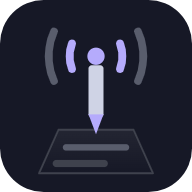
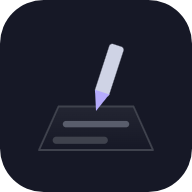
아이콘 — 신호 아크 제거, 연필 기울임(18°), 연필 움직임만
- 홈 로고: 안테나 신호 아크·발신점 삭제 → 연필+종이만, 위로 정렬(균형)
- 연필 18° 기울여 '쓰는' 자세, 신호 wave·종이줄 draw 애니메이션 제거(연필 스윕만)
- 앱 아이콘 PNG 6종 동일 디자인으로 재생성, sw v33

diff --git a/index.html b/index.html
@@ -49,14 +49,9 @@
     .hero { text-align:center; margin:14px 0 22px; }
     .emblem { display:grid; place-items:center; margin:2px auto 12px; }
     .appicon { width:116px; height:116px; border-radius:27px; overflow:hidden; box-shadow:0 12px 28px rgba(20,40,80,.30); display:block; }
-    @keyframes sigwave { 0%{opacity:0} 12%{opacity:1} 55%{opacity:1} 80%{opacity:.08} 100%{opacity:.08} }
-    .appicon .w1 { animation:sigwave 2.2s ease-in-out .15s infinite; }
-    .appicon .w2 { animation:sigwave 2.2s ease-in-out .75s infinite; }
     @keyframes writing { 0%{transform:translate(-46px,0)} 14%{transform:translate(-30px,-12px)} 28%{transform:translate(-14px,2px)} 42%{transform:translate(4px,-12px)} 56%{transform:translate(22px,2px)} 70%{transform:translate(46px,-6px)} 80%{transform:translate(46px,0)} 100%{transform:translate(-46px,0)} }
-    @keyframes drawline { 0%{stroke-dashoffset:320} 58%{stroke-dashoffset:0} 88%{stroke-dashoffset:0} 100%{stroke-dashoffset:320} }
     .appicon .pencil { animation:writing 2.6s ease-in-out infinite; }
-    .appicon .line1 { stroke-dasharray:320; animation:drawline 2.6s ease-in-out infinite; }
-    @media (prefers-reduced-motion: reduce) { .appicon .w1, .appicon .w2 { animation:none; opacity:1; } .appicon .pencil { animation:none; transform:none; } .appicon .line1 { animation:none; stroke-dashoffset:0; } }
+    @media (prefers-reduced-motion: reduce) { .appicon .pencil { animation:none; transform:none; } }
     .wordmark { display:inline-block; font-family:var(--font-head); font-size:1.9rem; font-weight:800; line-height:1.1; letter-spacing:-.01em; color:var(--ink); }
     .wordmark::after { content:""; display:block; height:4px; border-radius:3px; margin:2px auto 0; background:linear-gradient(90deg,var(--accent),#7aa2ff); }
     .subtitle { font-size:.86rem; color:var(--muted); margin-top:10px; letter-spacing:.01em; }
@@ -124,21 +119,20 @@
   <div class="wrap">
     <div class="hero">
       <div class="emblem">
-        <svg class="appicon" viewBox="0 0 1024 1024" role="img" aria-label="방송 업무일지 앱 아이콘">
+        <svg class="appicon" viewBox="0 0 1024 1024" role="img" aria-label="업무일지 앱 아이콘">
           <rect width="1024" height="1024" fill="#161826"/>
           <defs><linearGradient id="paper" x1="0" y1="0" x2="0" y2="1"><stop offset="0" stop-color="#232532"/><stop offset="1" stop-color="#161826"/></linearGradient></defs>
-          <path d="M312 692 H712 L816 924 H208 Z" fill="url(#paper)" stroke="#3f424d" stroke-width="10" stroke-linejoin="round"/>
-          <path class="line1" d="M352 786 H672" stroke="#595d6c" stroke-width="34" stroke-linecap="round"/>
-          <path d="M300 872 H556" stroke="#3f424d" stroke-width="38" stroke-linecap="round"/>
-          <g class="pencil">
-            <rect x="472" y="348" width="80" height="278" rx="18" fill="#cfd3e5"/>
-            <path d="M472 610 L512 716 L552 610 Z" fill="#b5abfc"/>
+          <g transform="translate(0 -124)">
+            <path d="M312 692 H712 L816 924 H208 Z" fill="url(#paper)" stroke="#3f424d" stroke-width="10" stroke-linejoin="round"/>
+            <path class="line1" d="M352 786 H672" stroke="#595d6c" stroke-width="34" stroke-linecap="round"/>
+            <path d="M300 872 H556" stroke="#3f424d" stroke-width="38" stroke-linecap="round"/>
+            <g class="pencil">
+              <g transform="rotate(18 512 716)">
+                <rect x="472" y="348" width="80" height="278" rx="18" fill="#cfd3e5"/>
+                <path d="M472 610 L512 716 L552 610 Z" fill="#b5abfc"/>
+              </g>
+            </g>
           </g>
-          <circle cx="512" cy="300" r="46" fill="#b5abfc"/>
-          <path d="M384 232 A196 196 0 0 0 384 368" fill="none" stroke="#b5abfc" stroke-width="42" stroke-linecap="round" class="w1"/>
-          <path d="M640 232 A196 196 0 0 1 640 368" fill="none" stroke="#b5abfc" stroke-width="42" stroke-linecap="round" class="w1"/>
-          <path d="M288 168 A324 324 0 0 0 288 432" fill="none" stroke="#595d6c" stroke-width="42" stroke-linecap="round" class="w2"/>
-          <path d="M736 168 A324 324 0 0 1 736 432" fill="none" stroke="#595d6c" stroke-width="42" stroke-linecap="round" class="w2"/>
         </svg>
       </div>
       <div class="wordmark">전국 송·중계소</div>

diff --git a/sw.js b/sw.js
@@ -1,5 +1,5 @@
 // KBS 일일업무일지 PWA 서비스워커 — 네트워크 우선 + 오프라인 캐시 폴백
-const CACHE = "ilji-v32";
+const CACHE = "ilji-v33";
 const SHELL = [
   "./", "./index.html", "./daily.html", "./cases.html", "./help.html", "./analysis.html", "./ai.html",
   "./hwpx.js", "./photo.js", "./storage.js", "./photoStorage.js",
